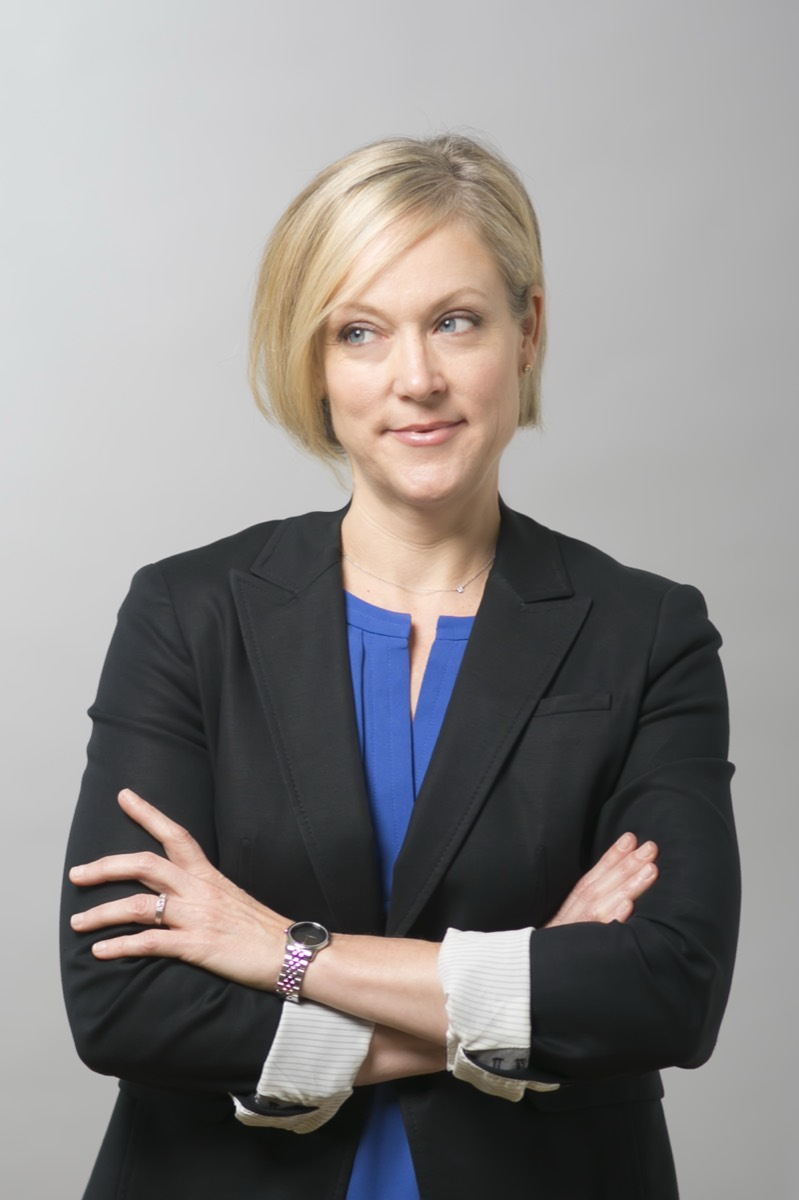
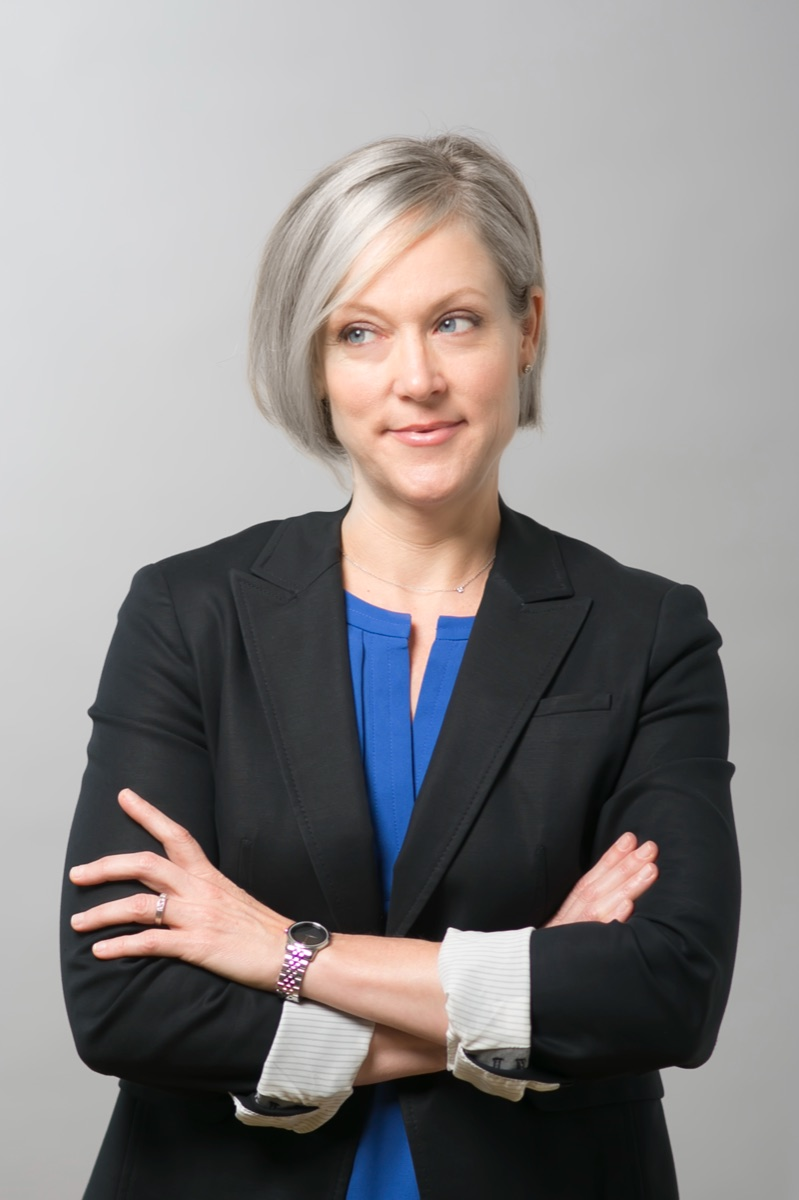
About: replace portrait with new photo (web-optimized), fix portrait aspect-ratio crop

diff --git a/about.html b/about.html
@@ -15,7 +15,7 @@
   <link rel="preconnect" href="https://fonts.googleapis.com">
   <link rel="preconnect" href="https://fonts.gstatic.com" crossorigin>
   <link href="https://fonts.googleapis.com/css2?family=Bricolage+Grotesque:opsz,wght@12..96,400..800&family=Instrument+Sans:ital,wght@0,400;0,500;0,600;1,400&family=JetBrains+Mono:ital,wght@0,400;0,500;1,500&display=swap" rel="stylesheet">
-  <link rel="stylesheet" href="assets/css/styles.css?v=12">
+  <link rel="stylesheet" href="assets/css/styles.css?v=13">
   <script type="application/ld+json">
   {
     "@context": "https://schema.org",
@@ -59,7 +59,7 @@
         </div>
         <blockquote class="statement">What is preventing customers from succeeding, and how should the business organize itself to solve that?</blockquote>
       </div>
-      <img class="about-portrait" src="assets/img/danielle-zimmerman.jpg" width="799" height="1200" alt="Danielle Zimmerman" loading="eager">
+      <img class="about-portrait" src="assets/img/danielle-zimmerman.jpg?v=2" width="799" height="1200" alt="Danielle Zimmerman" loading="eager">
     </div>
   </header>
 

diff --git a/assets/css/styles.css b/assets/css/styles.css
@@ -447,5 +447,5 @@ img, svg { max-width: 100%; }
 
 /* About hero portrait (Deep Ink) */
 .about-hero { display: grid; grid-template-columns: 1fr 360px; gap: 64px; align-items: start; }
-.about-portrait { width: 100%; aspect-ratio: 4 / 5; object-fit: cover; object-position: 50% 18%; border-radius: 8px; border: 1px solid var(--hairline); display: block; }
+.about-portrait { width: 100%; height: auto; aspect-ratio: 4 / 5; object-fit: cover; object-position: 50% 20%; border-radius: 8px; border: 1px solid var(--hairline); display: block; }
 @media (max-width: 900px) { .about-hero { grid-template-columns: 1fr; gap: 36px; max-width: 460px; } }

diff --git a/contact.html b/contact.html
@@ -15,7 +15,7 @@
   <link rel="preconnect" href="https://fonts.googleapis.com">
   <link rel="preconnect" href="https://fonts.gstatic.com" crossorigin>
   <link href="https://fonts.googleapis.com/css2?family=Bricolage+Grotesque:opsz,wght@12..96,400..800&family=Instrument+Sans:ital,wght@0,400;0,500;0,600;1,400&family=JetBrains+Mono:ital,wght@0,400;0,500;1,500&display=swap" rel="stylesheet">
-  <link rel="stylesheet" href="assets/css/styles.css?v=12">
+  <link rel="stylesheet" href="assets/css/styles.css?v=13">
 </head>
 <body>
 <a class="skip-link" href="#main">Skip to content</a>

diff --git a/how-i-work.html b/how-i-work.html
@@ -15,7 +15,7 @@
   <link rel="preconnect" href="https://fonts.googleapis.com">
   <link rel="preconnect" href="https://fonts.gstatic.com" crossorigin>
   <link href="https://fonts.googleapis.com/css2?family=Bricolage+Grotesque:opsz,wght@12..96,400..800&family=Instrument+Sans:ital,wght@0,400;0,500;0,600;1,400&family=JetBrains+Mono:ital,wght@0,400;0,500;1,500&display=swap" rel="stylesheet">
-  <link rel="stylesheet" href="assets/css/styles.css?v=12">
+  <link rel="stylesheet" href="assets/css/styles.css?v=13">
 </head>
 <body>
 <a class="skip-link" href="#main">Skip to content</a>

diff --git a/results.html b/results.html
@@ -15,7 +15,7 @@
   <link rel="preconnect" href="https://fonts.googleapis.com">
   <link rel="preconnect" href="https://fonts.gstatic.com" crossorigin>
   <link href="https://fonts.googleapis.com/css2?family=Bricolage+Grotesque:opsz,wght@12..96,400..800&family=Instrument+Sans:ital,wght@0,400;0,500;0,600;1,400&family=JetBrains+Mono:ital,wght@0,400;0,500;1,500&display=swap" rel="stylesheet">
-  <link rel="stylesheet" href="assets/css/styles.css?v=12">
+  <link rel="stylesheet" href="assets/css/styles.css?v=13">
 </head>
 <body>
 <a class="skip-link" href="#main">Skip to content</a>

diff --git a/thank-you.html b/thank-you.html
@@ -16,7 +16,7 @@
   <link rel="preconnect" href="https://fonts.googleapis.com">
   <link rel="preconnect" href="https://fonts.gstatic.com" crossorigin>
   <link href="https://fonts.googleapis.com/css2?family=Bricolage+Grotesque:opsz,wght@12..96,400..800&family=Instrument+Sans:ital,wght@0,400;0,500;0,600;1,400&family=JetBrains+Mono:ital,wght@0,400;0,500;1,500&display=swap" rel="stylesheet">
-  <link rel="stylesheet" href="assets/css/styles.css?v=12">
+  <link rel="stylesheet" href="assets/css/styles.css?v=13">
 </head>
 <body>
 <a class="skip-link" href="#main">Skip to content</a>

diff --git a/index.html b/index.html
@@ -19,7 +19,7 @@
   <link rel="preconnect" href="https://fonts.gstatic.com" crossorigin>
   <link href="https://fonts.googleapis.com/css2?family=Bricolage+Grotesque:opsz,wght@12..96,400..800&family=Instrument+Sans:ital,wght@0,400;0,500;0,600;1,400&family=JetBrains+Mono:ital,wght@0,400;0,500;1,500&display=swap" rel="stylesheet">
 
-  <link rel="stylesheet" href="assets/css/styles.css?v=12">
+  <link rel="stylesheet" href="assets/css/styles.css?v=13">
 </head>
 <body>
 <a class="skip-link" href="#main">Skip to content</a>
